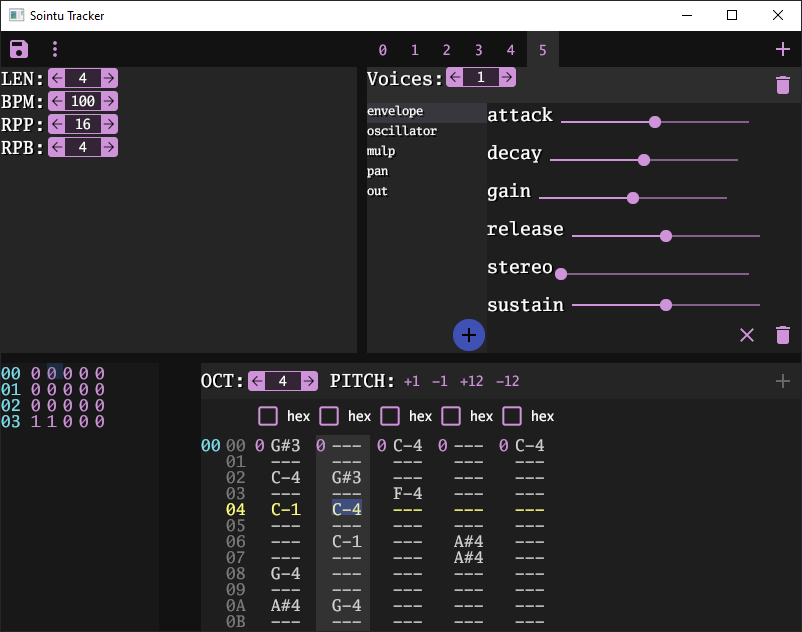
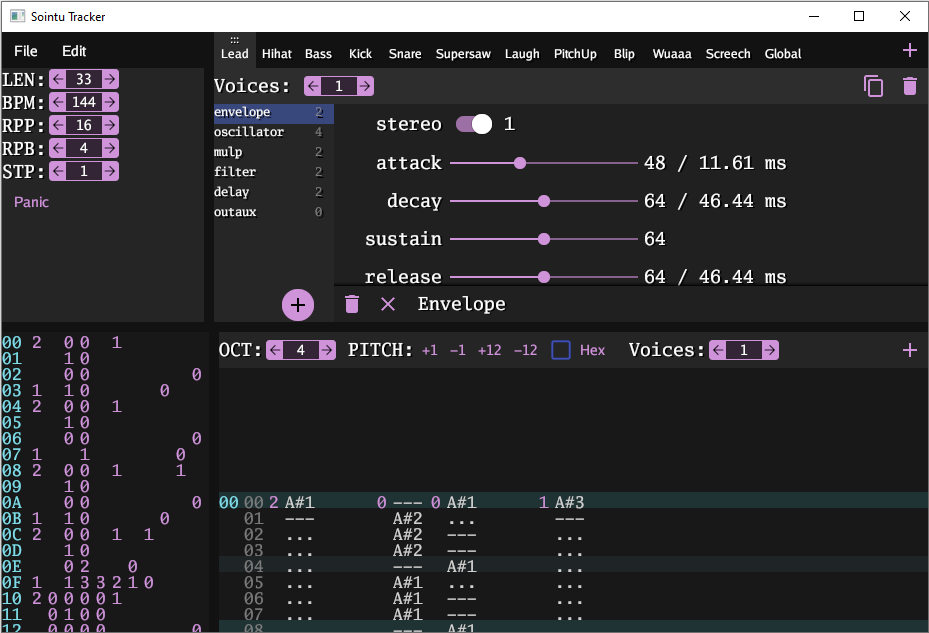
update README & screenshot

diff --git a/README.md b/README.md
@@ -6,6 +6,9 @@ intros, forked from [4klang](https://github.com/hzdgopher/4klang). Targetable
 architectures include 386, amd64, and WebAssembly; targetable platforms include
 Windows, Mac, Linux (and related) + browser.
 
+Pull requests / suggestions / issues welcome, through Github! You can also
+contact me through email (firstname.lastname@gmail.com).
+
 Summary
 -------
 
@@ -22,29 +25,70 @@ hundred bytes for the patch and pattern data.
 
 Sointu consists of two core elements:
 - A cross-platform synth-tracker app for composing music, written in
-  [go](https://golang.org/). The app is not working yet, but a prototype is
-  existing. The app exports (will export) the projects as .yml files.
+  [go](https://golang.org/). The app is still heavily work in progress. The app
+  exports the projects as .yml files. There are two versions of the app:
+  [cmd/sointu-track/](sointu-track), using a pure-Go VM bytecode interpreter,
+  and [cmd/sointu-nativetrack/](sointu-nativetrack), using cgo to bridge calls
+  to the Sointu compiled VM. The former should be highly portable, the latter
+  currently works only on x86/amd64 platforms.
 - A compiler, likewise written in go, which can be invoked from the command line
-  to compile these .yml files into .asm or .wat code. For x86 platforms, the
+  to compile these .yml files into .asm or .wat code. For x86/amd64, the
   resulting .asm can be then compiled by [nasm](https://www.nasm.us/) or
   [yasm](https://yasm.tortall.net). For browsers, the resulting .wat can be
   compiled by [wat2wasm](https://github.com/WebAssembly/wabt).
 
 This is how the current prototype tracker looks like:
-  
+
 ![Screenshot of the tracker](screenshot.png)
-  
+
 Building
 --------
 
 Various aspects of the project have different tool dependencies, which are
 listed below.
 
-### Building the compiler
+### Sointu-track
 
-The [compiler](compiler/) package is an ordinary [go](https://golang.org/)
-package with no other tool dependencies. The command line interface to it is
-[sointu-compile](cmd/sointu-compile).
+Running the tracker:
+
+```
+go run cmd/sointu-track/main.go
+```
+
+Building the tracker:
+
+```
+go build -o sointu-track cmd/sointu-track/main.go
+```
+
+On windows, replace `-o sointu-track` with `-o sointu-track.exe`.
+
+The uses the [gioui](https://gioui.org/) for the GUI and
+[oto](https://github.com/hajimehoshi/oto) for the audio, so the portability is
+currently limited by these. This version of the executable uses the bytecode
+interpreter written in Go.
+
+> :warning: Unlike the x86/amd64 VM compiled by Sointu, the Go written VM
+> bytecode interpreter uses a software stack. Thus, unlike x87 FPU stack, it is
+> not limited to 8 items. If you intent to compile the patch to x86/amd64
+> targets, make sure not to use too much stack. Keeping at most 5 signals in the
+> stack is presumably fine (reserving 3 for the temporary variables of the
+> opcodes). In future, the app should give warnings if the user is about to
+> exceed the capabilities of a target platform.
+
+### Compiler
+
+The command line interface to it is [sointu-compile](cmd/sointu-compile) and the
+actual code resides in the [compiler](vm/compiler/) package, which is an ordinary
+[go](https://golang.org/) package with no other tool dependencies.
+
+Running the compiler:
+
+```
+go run cmd/sointu-compile/main.go
+```
+
+Building the compiler:
 
 ```
 go build -o sointu-compile cmd/sointu-compile/main.go
@@ -98,9 +142,17 @@ cmake .. -DCMAKE_C_FLAGS="-m32" -DCMAKE_ASM_NASM_OBJECT_FORMAT="win32" -G"MinGW 
 Another example: on Visual Studio 2019 Community, just open the folder, choose
 either Debug or Release and either x86 or x64 build, and hit build all.
 
-### Building and running command line player, tracker, and go tests
+### Native bridge & sointu-nativetrack
 
-This is a bit trickier, but not much. Building these requires:
+The native bridge allows the Go call the sointu compiled virtual machine,
+through cgo, instead of using the Go written bytecode interpreter. It's likely
+slightly faster than the interpreter. The command line interface to the tracker
+version using the native bridge is
+[sointu-nativetrack](cmd/sointu-nativetrack/). Before you can actually run it,
+you need to build the bridge using CMake (thus, the nativetrack does not work
+with go get)
+
+Building the native bridge requires:
 - [go](https://golang.org/)
 - [CMake](https://cmake.org)
 - [nasm](https://www.nasm.us/) or [yasm](https://yasm.tortall.net)
@@ -111,25 +163,28 @@ This is a bit trickier, but not much. Building these requires:
 The last point is because the command line player and the tracker use
 [cgo](https://golang.org/cmd/cgo/) to interface with the synth core, which is
 compiled into a library. The cgo bridge resides in the package
-[bridge](bridge/).
+[bridge](vm/compiler/bridge/).
 
 A critical thing here is that *you must build the library inside a directory
 called build at the root of the project*. This is because the path where cgo
 looks for the library is hard coded to point to build/ in the go files.
 
-So, to build the library, run:
+So, to build the library, run (this example is using
+[ninja](https://ninja-build.org/) for the build; adapt for other build tools
+accordingly):
 
 ```
 mkdir build
 cd build
-cmake .. -G"MinGW Makefiles"
-mingw32-make sointu
+cmake .. -GNinja
+ninja sointu
 ```
 
-Running `mingw32-make sointu` only builds the static library that go needs. This
+Running `ninja sointu` only builds the static library that go needs. This
 is a lot faster than building all the CTests.
 
-Running all go tests (run from the project root folder)
+You and now run all the go tests, even the ones that test the native bridge.run
+From the project root folder, run:
 
 ```
 go test ./...
@@ -140,9 +195,9 @@ Play a song from the command line:
 go run cmd/sointu-play/main.go tests/test_chords.yml
 ```
 
-Run the tracker
+Run the tracker using the native bridge
 ```
-go run cmd/sointu-track/main.go
+go run cmd/sointu-nativetrack/main.go
 ```
 
 > :warning: **If you are using MinGW and Yasm**: Yasm 1.3.0 (currently still the
@@ -167,7 +222,7 @@ New features since fork
     quite powerful combination: we can handcraft the assembly code to keep the
     entropy as low as possible, yet we can call arbitrary go functions as
     "macros". The templates are [here](templates/) and the compiler lives
-    [here](compiler/).
+    [here](vm/compiler/).
   - **Tracker**. Written in go. A prototype exists.
   - **Supports 32 and 64 bit builds**. The 64-bit version is done with minimal
     changes to get it work, using template macros to change the lines between
@@ -183,10 +238,10 @@ New features since fork
     any number of voices, meaning in practice that multiple voices can reuse the
     same opcodes. So, you can have a single instrument with three voices, and
     three tracks that use this instrument, to make chords. See
-    [here](tests/test_chords.yml) for an example and [here](templates/patch.asm)
-    for the implementation. The maximum total number of voices will be 32: you
-    can have 32 monophonic instruments or any combination of polyphonic
-    instruments adding up to 32.
+    [here](tests/test_chords.yml) for an example and
+    [here](templates/amd64-386/patch.asm) for the implementation. The maximum
+    total number of voices will be 32: you can have 32 monophonic instruments or
+    any combination of polyphonic instruments adding up to 32.
   - **Any number of voices per track**. A single track can trigger more than one
     voice. At every note, a new voice from the assigned voices is triggered and
     the previous released. Combined with the previous, you can have a single
@@ -242,9 +297,9 @@ New features since fork
   - **Sample-based oscillators, with samples imported from gm.dls**. Reading
     gm.dls is obviously Windows only, but the sample mechanism can be used also
     without it, in case you are working on a 64k and have some kilobytes to
-    spare. See [this example](tests/test_oscillat_sample.yml), and this Python
-    [script](scripts/parse_gmdls.py) parses the gm.dls file and dumps the sample
-    offsets from it.
+    spare. See [this example](tests/test_oscillat_sample.yml), and this go
+    generate [program](cmd/sointu-generate/main.go) parses the gm.dls file and
+    dumps the sample offsets from it.
   - **Unison oscillators**. Multiple copies of the oscillator running slightly
     detuned and added up to together. Great for trance leads (supersaw). Unison
     of up to 4, or 8 if you make stereo unison oscillator and add up both left
@@ -255,6 +310,9 @@ New features since fork
     releasing voices etc.)
   - **Calling Sointu as a library from Go language**. The Go API is slighty more
     sane than the low-level library API, offering more Go-like experience.
+  - **A bytecode interpreter written in pure go**. It's slightly slower than the
+    hand-written assembly code by sointu compiler, but with this, the tracker is
+    ultraportable.
 
 Future goals
 ------------
@@ -307,14 +365,15 @@ Anti-goals
   - **Ability to run Sointu as a DAW plugin (VSTi, AU, LADSPA and DSSI...)**.
     None of these plugin technologies are cross-platform and they are full of
     proprietary technologies. In particular, since Sointu was initiated after
-    Steinberg ceased to give out VSTi2 licenses, there is currently no legal or
-    easy way to compile it as a VSTi2 plugin. I downloaded the VSTi3 API and,
-    nope, sorry, I don't want to spend my time on it. And Renoise supports only
-    VSTi2... There is [JUCE](https://juce.com/), but it is again a mammoth and
-    requires apparently pretty deep integration in build system in the form of
-    Projucer. If someone comes up with a light-weight way and easily
-    maintainable way to make the project into DAW plugin, I may reconsider. For
-    now, if you really must, we aim to support MIDI.
+    Steinberg ceased to give out VSTi2 licenses, there is currently no legal to
+    compile it as a VSTi2 plugin using the official API. I downloaded the VSTi3
+    API and, nope, sorry, I don't want to spend my time on it. And Renoise
+    supports only VSTi2... There is [JUCE](https://juce.com/), but it is again a
+    mammoth and requires apparently pretty deep integration in build system in
+    the form of Projucer. If you know a legal way to start a VSTi2 project
+    today, please let me know! But I really am not interested in
+    cease-and-desist letters from Steinberg, so "just do it, no-one cares" is
+    not enough. For now, the aim is to support MIDI.
 
 Design philosophy
 -----------------
